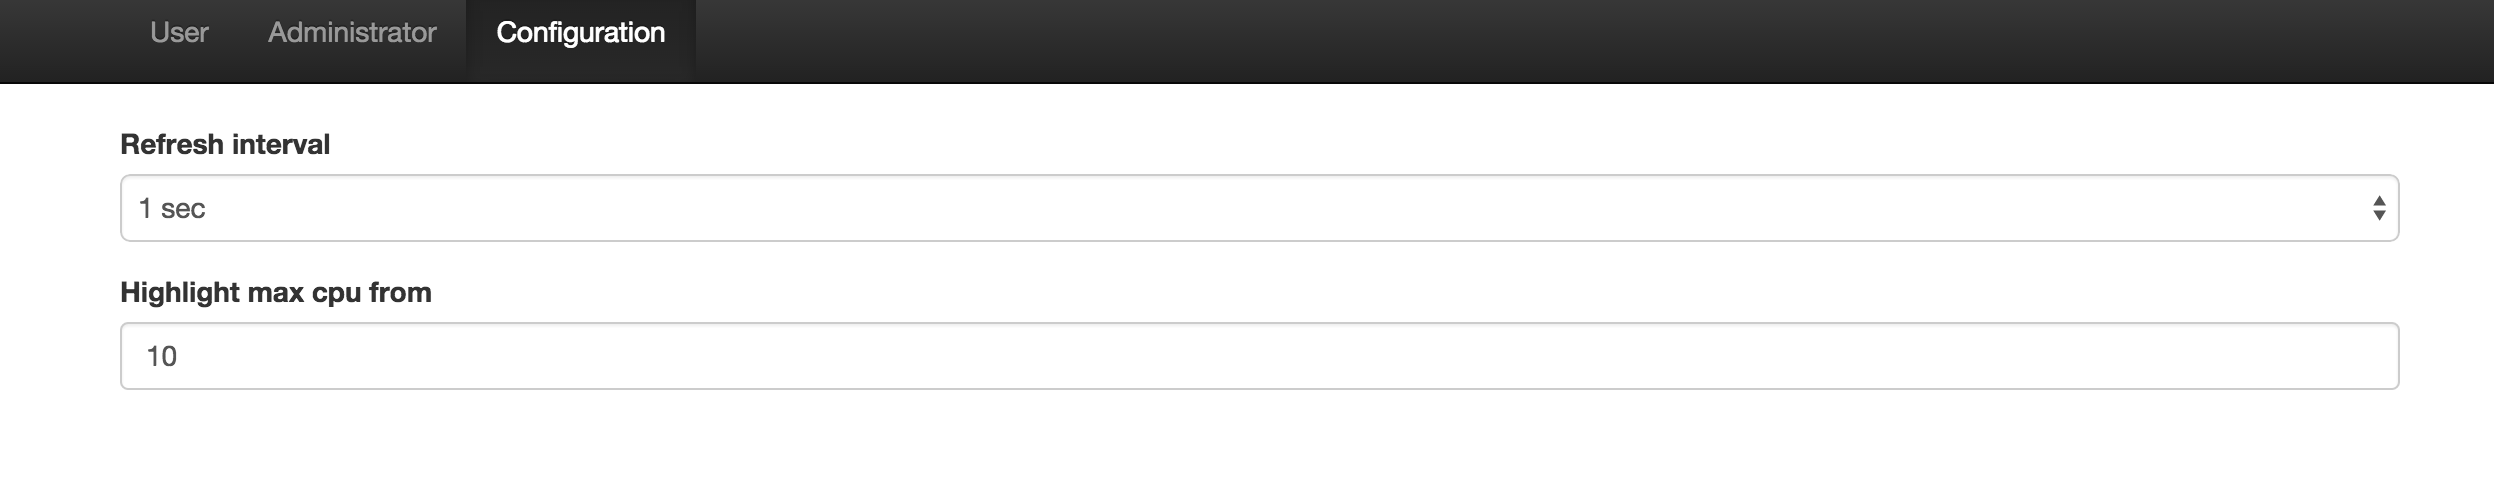
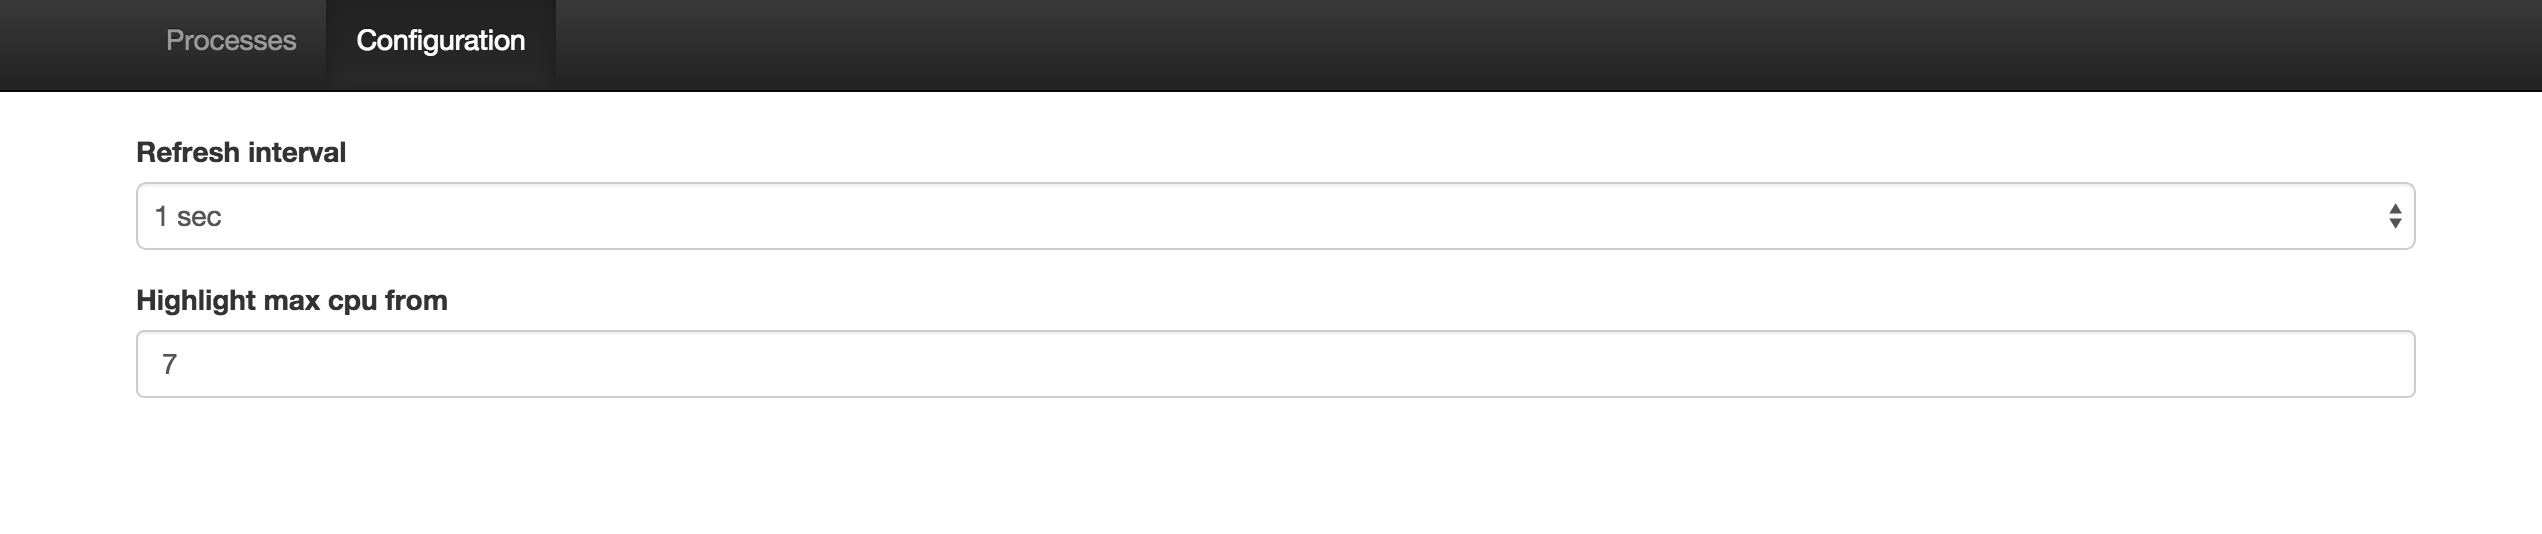
Update readme + normalize user processes names

diff --git a/src/main/resources/web-app/resources/dist/all.min.js b/src/main/resources/web-app/resources/dist/all.min.js
@@ -61,7 +61,7 @@ angular.module("app")
     $scope.gridOptions = {
       enableFiltering: true,
       columnDefs: [
-        {field: 'taskName', displayName: 'Task Name', enableCellEdit: false},
+        {field: 'taskName', displayName: 'Task', enableCellEdit: false},
         {field: 'user', displayName: 'User', enableCellEdit: false},
         {field: 'cpu', displayName: 'Processor %', enableCellEdit: false,
           cellClass: function(grid, row, col, rowRenderIndex, colRenderIndex) {
@@ -69,7 +69,7 @@ angular.module("app")
           }
         },
         {field: 'memory', displayName: 'Memory %', enableCellEdit: false},
-        {field: 'description', displayName: 'Description', enableCellEdit: false}
+        {field: 'description', displayName: 'Command', enableCellEdit: false}
       ],
       sortInfo: {
         fields: ['cpu'],

diff --git a/src/main/resources/web-app/src/app/controllers.js b/src/main/resources/web-app/src/app/controllers.js
@@ -6,7 +6,7 @@ angular.module("app")
     $scope.gridOptions = {
       enableFiltering: true,
       columnDefs: [
-        {field: 'taskName', displayName: 'Task Name', enableCellEdit: false},
+        {field: 'taskName', displayName: 'Task', enableCellEdit: false},
         {field: 'user', displayName: 'User', enableCellEdit: false},
         {field: 'cpu', displayName: 'Processor %', enableCellEdit: false,
           cellClass: function(grid, row, col, rowRenderIndex, colRenderIndex) {
@@ -14,7 +14,7 @@ angular.module("app")
           }
         },
         {field: 'memory', displayName: 'Memory %', enableCellEdit: false},
-        {field: 'description', displayName: 'Description', enableCellEdit: false}
+        {field: 'description', displayName: 'Command', enableCellEdit: false}
       ],
       sortInfo: {
         fields: ['cpu'],

diff --git a/README.md b/README.md
@@ -20,11 +20,14 @@ Afterwards, navigate your browser to http://localhost:8080
 
 ## Screenshots
 
-#### Admin page (all processes)
-![alt tag](readme_files/admin.png)
-
-#### User page (user processes)
-![alt tag](readme_files/user.png)
+#### Processes page
+![alt tag](readme_files/processes.png)
 
 #### Config page
 ![alt tag](readme_files/configuration.png)
+
+
+## Usage
+
+#### filter processes by name
+use `*` for partial mach. eg: to find all `Google` processes type `*Google*` in search field of *Task Column* 
